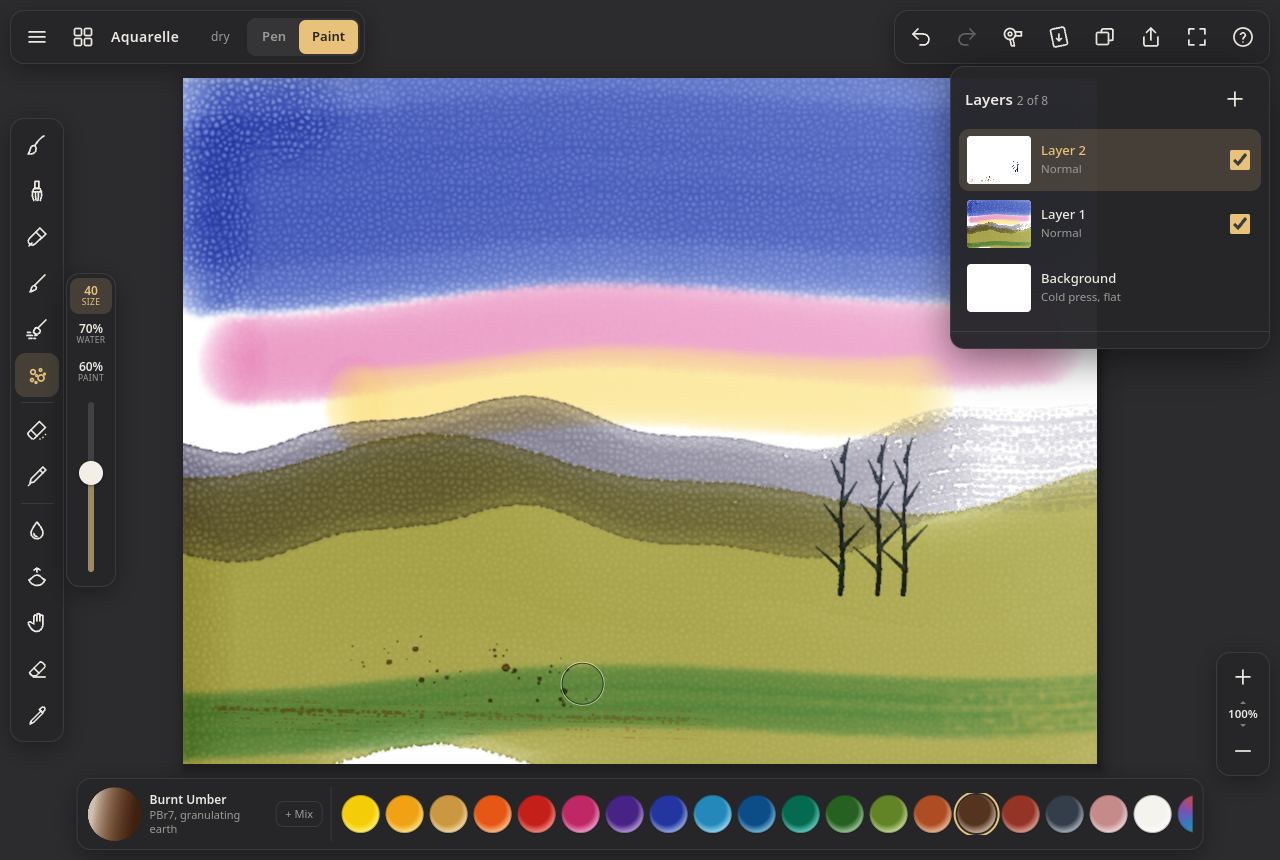
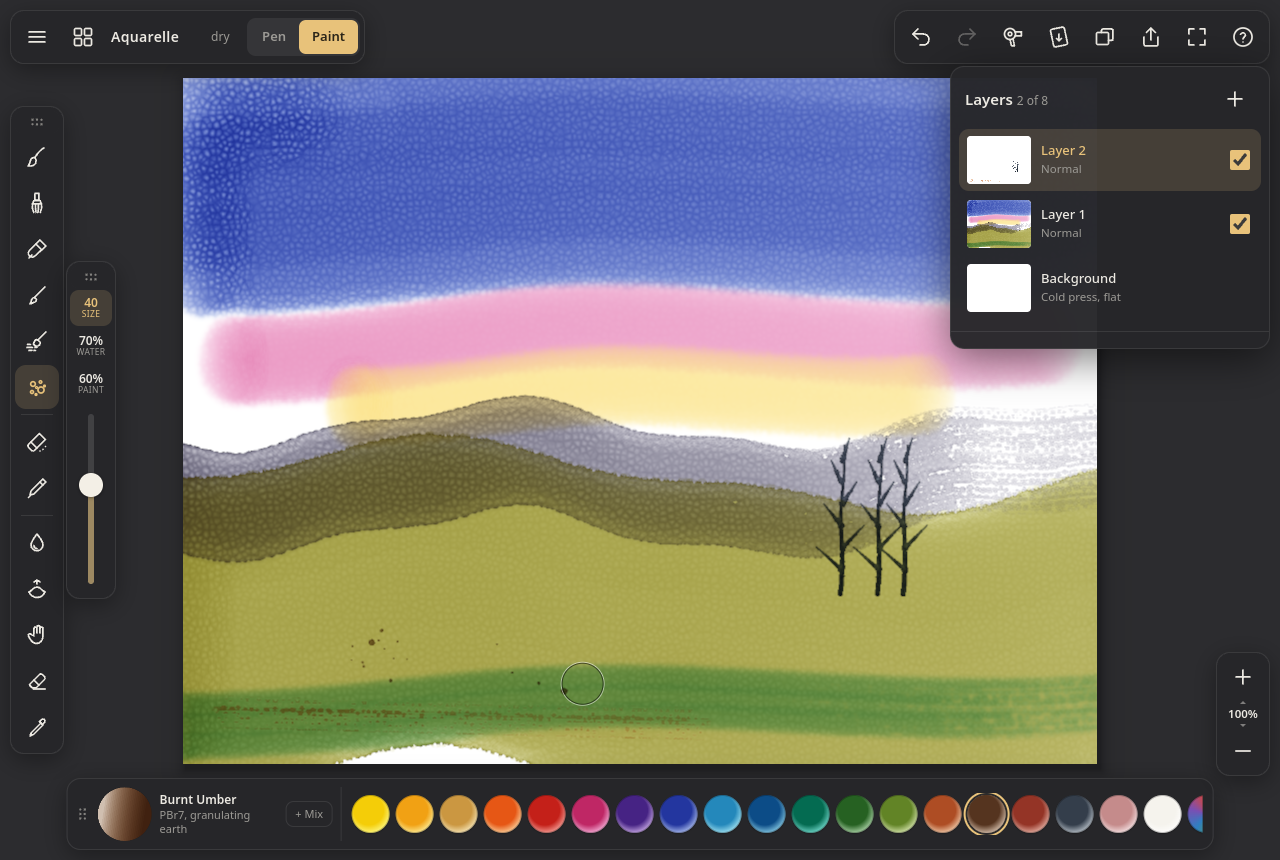
Aquarelle: movable, foldable panels (grip: drag to move, tap to fold)

diff --git a/vibes/aquarelle/app.js b/vibes/aquarelle/app.js
@@ -183,14 +183,15 @@ function fitTopBars() {
 function fitColumns() {
   const tools = $('#tools'), sl = $('#sliders'), track = $('#slTrack'), zb = $('#zoomBar');
   tools.style.top = tools.style.maxHeight = tools.style.transform = '';
-  track.style.height = ''; track.style.display = ''; sl.style.top = sl.style.transform = sl.style.maxHeight = sl.style.overflowY = '';
+  track.style.height = ''; track.style.display = ''; sl.style.top = sl.style.transform = sl.style.maxHeight = sl.style.overflowY = ''; if (!pstate('sliders').pos) sl.style.left = '';
   $('#zoomPct').style.display = '';
   const topB = Math.max(...['#topL', '#topR', '#pages'].map(rectOf).filter(Boolean).map((r) => r.bottom), box.y) + 6;
   const bar = rectOf(S.mode === 'pen' ? '#penBar' : '#palette');
   // tool strip: between the top bars and the palette (on the left both reach it)
-  const t = rectOf('#tools');
+  const t = !pstate('tools').pos && rectOf('#tools');
+  if (pstate('tools').pos) { placePanel('tools'); const r = rectOf('#tools'); if (r && r.height > innerHeight - 16) { tools.style.maxHeight = innerHeight - 16 + 'px'; placePanel('tools'); } }
   if (t) {
-    const lo = bar && bar.left < t.right ? bar.top - 6 : box.y + box.h - 8, room = lo - topB;
+    const lo = bar && bar.left < t.right + 12 ? bar.top - 6 : box.y + box.h - 8, room = lo - topB;
     if (t.height > room) { tools.style.top = topB + 'px'; tools.style.transform = 'none'; tools.style.maxHeight = Math.max(100, room) + 'px'; }
     else if (t.top < topB || t.bottom > lo) { tools.style.top = (topB + lo) / 2 + 'px'; }
   }
@@ -198,7 +199,10 @@ function fitColumns() {
   const z = rectOf('#zoomBar');
   if (z && bar && bar.left < z.right && bar.right > z.left && bar.top < z.bottom) zb.style.bottom = box.y + box.h - bar.top + 8 + 'px';
   // slider column: above the zoom bar when they share the edge
-  const s = rectOf('#sliders'), z2 = rectOf('#zoomBar');
+  const s = !pstate('sliders').pos && rectOf('#sliders'), z2 = rectOf('#zoomBar');
+  if (pstate('sliders').pos) placePanel('sliders');
+  // beside the tool strip (a scrolling strip is a little wider)
+  if (s && !pstate('tools').pos) { const t2 = rectOf('#tools'); if (t2 && s.left < t2.right + 2 && s.right > t2.left && s.top < t2.bottom && s.bottom > t2.top) sl.style.left = t2.right + 4 + 'px'; }
   if (s) {
     let lo = box.y + box.h - 8;
     if (z2 && z2.left < s.right && z2.right > s.left) lo = Math.min(lo, z2.top - 6);
@@ -216,9 +220,76 @@ function fitColumns() {
   const z3 = rectOf('#zoomBar');
   if (z3 && z3.top < topB) $('#zoomPct').style.display = 'none';
 }
+// ---------- movable, foldable panels ----------
+// The palette, the pen bar, the tool strip and the size / water / paint column have a grip:
+// drag it to put the panel anywhere, tap it to fold the panel down to what is selected
+// (tap the folded panel to open it again), double-tap it to put the panel back.
+// S.panels[id] = { folded, pos: { ax: 'l' | 'r', x, ay: 't' | 'b', y } } (px from the nearest edges).
+const MOVABLE = ['palette', 'penBar', 'tools', 'sliders'];
+const pstate = (id) => ((S.panels ??= {})[id] ??= {});
+for (const id of MOVABLE) {
+  const el = document.getElementById(id);
+  const g = Object.assign(document.createElement('button'), { className: 'grip', title: 'Move or fold — drag to move, tap to fold, double-tap to put back', innerHTML: '<svg><use href="#i-grip"/></svg>' });
+  el.prepend(g);
+  let d = null, lastTap = 0;
+  g.addEventListener('pointerdown', (e) => {
+    e.preventDefault(); e.stopPropagation(); g.setPointerCapture(e.pointerId);
+    const r = el.getBoundingClientRect();
+    d = { x: e.clientX, y: e.clientY, ox: e.clientX - r.left, oy: e.clientY - r.top, moved: false };
+  });
+  g.addEventListener('pointermove', (e) => {
+    if (!d) return;
+    if (!d.moved && Math.hypot(e.clientX - d.x, e.clientY - d.y) < 6) return;
+    d.moved = true; labelEl.style.display = 'none';
+    const w = el.offsetWidth, h = el.offsetHeight;
+    const L = Math.max(0, Math.min(innerWidth - w, e.clientX - d.ox)), T = Math.max(0, Math.min(innerHeight - h, e.clientY - d.oy));
+    const ax = L + w / 2 < innerWidth / 2 ? 'l' : 'r', ay = T + h / 2 < innerHeight / 2 ? 't' : 'b';
+    pstate(id).pos = { ax, x: ax === 'l' ? L : innerWidth - L - w, ay, y: ay === 't' ? T : innerHeight - T - h };
+    placePanel(id);
+  });
+  const up = (e) => {
+    if (!d) return;
+    const moved = d.moved; d = null;
+    if (e.type !== 'pointerup') return;
+    if (moved) { savePrefs(); panelsChanged(); return; }
+    const now = performance.now();
+    if (now - lastTap < 350) { // double-tap: back where it belongs, unfolded
+      clearTimeout(g.t); lastTap = 0; delete pstate(id).pos; pstate(id).folded = false; applyPanel(id); savePrefs(); panelsChanged(); return;
+    }
+    lastTap = now;
+    g.t = setTimeout(() => setFolded(id, !pstate(id).folded), 260);
+  };
+  g.addEventListener('pointerup', up); g.addEventListener('pointercancel', up);
+  g.addEventListener('click', (e) => e.stopPropagation());
+  // a folded panel opens again when you tap it
+  el.addEventListener('click', (e) => { if (el.classList.contains('folded') && !e.target.closest('.grip')) { e.stopPropagation(); e.preventDefault(); setFolded(id, false); } }, true);
+}
+function setFolded(id, v) { pstate(id).folded = v; applyPanel(id); savePrefs(); panelsChanged(); }
+function applyPanel(id) { document.getElementById(id).classList.toggle('folded', !!pstate(id).folded); placePanel(id); }
+/** Put a moved panel where it was put, kept on the screen; a panel that was not moved: clear. */
+function placePanel(id) {
+  const el = document.getElementById(id), p = pstate(id).pos;
+  el.classList.toggle('placed', !!p);
+  if (!p) { for (const k of ['left', 'top', 'right', 'bottom', 'transform', 'translate']) el.style[k] = ''; return; }
+  const w = el.offsetWidth, h = el.offsetHeight;
+  let L = p.ax === 'l' ? p.x : innerWidth - p.x - w, T = p.ay === 't' ? p.y : innerHeight - p.y - h;
+  L = Math.max(0, Math.min(innerWidth - w, L)); T = Math.max(0, Math.min(innerHeight - h, T));
+  Object.assign(el.style, { left: L + 'px', top: T + 'px', right: 'auto', bottom: 'auto', transform: 'none', translate: 'none' });
+}
+function panelsChanged() { if (!sim) return; if (!userMovedView) fit(); else layoutPanels(); needsRender = true; }
+/** A panel that was moved away from every edge floats over the page and leaves it its room. */
+function floating(id) {
+  if (!pstate(id).pos) return false;
+  const r = rectOf('#' + id); if (!r) return false;
+  const m = 36; return r.left > m && r.top > m && r.right < innerWidth - m && r.bottom < innerHeight - m;
+}
+function resetPanels() { for (const id of MOVABLE) { delete pstate(id).pos; pstate(id).folded = false; applyPanel(id); } savePrefs(); panelsChanged(); }
+for (const id of MOVABLE) applyPanel(id);
+
 function layoutPanels() {
   const pg = $('#pages'), zb = $('#zoomBar');
   pg.style.top = ''; zb.style.bottom = '';
+  placePanel('palette'); placePanel('penBar');
   fitTopBars();
   const p = rectOf('#pages');
   if (p) {
@@ -233,7 +304,7 @@ function freeArea() {
   const gap = box.w < 720 ? 8 : 14;
   let top = box.y, bottom = box.y + box.h, left = box.x, right = box.x + box.w;
   for (const sel of ['#topL', '#topR', '#pages', '#tools', '#sliders', '#zoomBar', '#palette', '#penBar']) {
-    const r = rectOf(sel); if (!r) continue;
+    const r = rectOf(sel); if (!r || (MOVABLE.includes(sel.slice(1)) && floating(sel.slice(1)))) continue;
     const cx = r.left + r.width / 2, cy = r.top + r.height / 2;
     if (r.width >= r.height) { if (cy < box.y + box.h / 2) top = Math.max(top, r.bottom); else bottom = Math.min(bottom, r.top); }
     else if (cx < box.x + box.w / 2) left = Math.max(left, r.right); else right = Math.min(right, r.left);
@@ -1223,6 +1294,7 @@ function buildActions() {
   chk('#optFs', () => !!S.autoFs, (v) => { S.autoFs = v; if (v) setFullscreen(true); });
   chk('#optEink', () => !!S.eink, (v) => { S.eink = v; applyTheme(); });
   chk('#optLabels', () => S.labels !== false, (v) => (S.labels = v));
+  $('#optPanels').onclick = () => { resetPanels(); toast('Panels are back in place'); };
   chk('#optCursor', () => S.cursor, (v) => { S.cursor = v; updateCursor(); });
   chk('#optQuick', () => S.quick, (v) => (S.quick = v));
   chk('#optRotate', () => S.rotate, (v) => { S.rotate = v; if (!v) { view.r = 0; needsRender = true; } });
@@ -1765,6 +1837,6 @@ if ('serviceWorker' in navigator && !qs.has('nosw') && location.protocol !== 'fi
 window.__aq = {
   box, get dpr() { return dpr; }, setFullscreen, get sim() { return sim; }, get doc() { return doc; }, view, S, get stroke() { return stroke; }, fit, setTool, selectBrush, choosePigment, useCustom, render,
   redraw: () => { needsRender = true; }, get world() { return world; }, worldKeep, infMinZ, visibleRect, placeAt, freeAreaRect: () => freeArea(), baseZ, zoomBy, zoomToggle, freeArea, gotoPage, insertPage, deletePage, movePage, get pageCache() { return pageCache; }, useBrush, setMode, setNib, setPenColour, exportImage, save, toSheet, toScreen, openGallery, openById, createPainting, rec, togglePop, dupLayer,
-  get penSeen() { return penSeen; }, togglePop, closePops,
+  get penSeen() { return penSeen; }, togglePop, closePops, setFolded, resetPanels, layoutPanels,
 };
 window.__ready = true;

diff --git a/vibes/aquarelle/smoke.js b/vibes/aquarelle/smoke.js
@@ -336,8 +336,10 @@ try {
   // fits between the bars
   const fitOk = await ev(`(() => { const a = __aq.toScreen(0, 0), b = __aq.toScreen(__aq.sim.W, __aq.sim.H), top = Math.max(document.querySelector('#topL').getBoundingClientRect().bottom, document.querySelector('#topR').getBoundingClientRect().bottom), pb = document.querySelector('#penBar').getBoundingClientRect().top; return a.y >= top - 1 && b.y <= pb + 1 && a.x >= 0 && b.x <= innerWidth; })()`);
   check(fitOk, 'page fits between the top bar and the pen bar');
-  const tgt = await ev(`[...document.querySelectorAll('.panel button')].filter((b) => b.offsetParent).map((b) => { const r = b.getBoundingClientRect(); return Math.min(r.width, r.height); }).sort((a, b) => a - b)[0]`);
+  const tgt = await ev(`[...document.querySelectorAll('.panel button:not(.grip)')].filter((b) => b.offsetParent).map((b) => { const r = b.getBoundingClientRect(); return Math.min(r.width, r.height); }).sort((a, b) => a - b)[0]`);
   check(tgt >= 30, 'touch targets at least 30 CSS px (≈ 5 mm on the B7 Pro)', tgt.toFixed(0) + ' px');
+  const grp = await ev(`[...document.querySelectorAll('.panel .grip')].filter((b) => b.offsetParent).map((b) => { const r = b.getBoundingClientRect(); return [Math.min(r.width, r.height), Math.max(r.width, r.height)]; })`);
+  check(grp.length && grp.every(([a, b]) => a >= 22 && b >= 34), 'panel grips at least 22 × 34 px', JSON.stringify(grp));
   // handwriting: a few cursive-ish words as pen strokes
   const word = (x0, y0, n) => { const pts = []; for (let i = 0; i <= n * 12; i++) { const t = i / 12; pts.push([x0 + t * 34, y0 - 26 * Math.abs(Math.sin(t * Math.PI * 0.9)) + 6 * Math.sin(t * 7)]); } return pts; };
   const ls = await ev('__aq.sim.pattern.sp');
@@ -595,6 +597,38 @@ try {
   const far2 = await ev(`(() => { const q = __aq.toScreen(${farPt[0]} - __aq.sim.origin[0], ${farPt[1]} - __aq.sim.origin[1]); return [q.x, q.y]; })()`);
   check(far2[0] > 0 && far2[0] < 632 && (await scr2(far2[0], far2[1])) < 120, 'far writing restored too', far2.map((v) => v.toFixed(0)).join(','));
   check(errors().length === 0, 'no console errors (new controls, pastel, infinite page)', errors().join(' | '));
+  // panels fold and move by their grips
+  await c.send('Emulation.setDeviceMetricsOverride', { width: 632, height: 840, deviceScaleFactor: 2, mobile: true });
+  check(await load('fresh=1&nosw=1&nohelp=1&nosave=1&eink=1'), 'loads for movable panels'); await sleep(300);
+  const gripAt = (id) => ev(`(() => { const r = document.querySelector('#${id} > .grip').getBoundingClientRect(); return [r.left + r.width / 2, r.top + r.height / 2]; })()`);
+  const tapAt = async ([x, y]) => { for (const type of ['mousePressed', 'mouseReleased']) await c.send('Input.dispatchMouseEvent', { type, x, y, button: 'left', buttons: type === 'mousePressed' ? 1 : 0, clickCount: 1 }); };
+  const qpw0 = await ev(`document.querySelector('#palette').getBoundingClientRect().width`);
+  await tapAt(await gripAt('palette')); await sleep(500);
+  const qpw1 = await ev(`document.querySelector('#palette').getBoundingClientRect().width`);
+  check(qpw1 < qpw0 * 0.3 && (await ev(`document.querySelector('#palette').classList.contains('folded')`)), 'tapping the palette grip folds it', `${qpw0.toFixed(0)} -> ${qpw1.toFixed(0)} px`);
+  await tapAt(await ev(`(() => { const r = document.querySelector('#mixWell').getBoundingClientRect(); return [r.left + r.width / 2, r.top + r.height / 2]; })()`)); await sleep(300);
+  check(!(await ev(`document.querySelector('#palette').classList.contains('folded')`)) && !(await ev(`document.querySelector('#colPop').classList.contains('open')`)), 'tapping the folded palette opens it again');
+  await tapAt(await gripAt('tools')); await sleep(500);
+  check(await ev(`(() => { const v = [...document.querySelectorAll('#tools > button:not(.grip)')].filter((b) => b.offsetParent); return v.length === 1 && v[0].classList.contains('on'); })()`), 'a folded tool strip shows just the selected tool');
+  await tapAt(await gripAt('tools')); await sleep(500);
+  // drag the tool strip by its grip into the middle: it stays there, floats, and survives a reload
+  const qg0 = await gripAt('tools');
+  await c.send('Input.dispatchMouseEvent', { type: 'mousePressed', x: qg0[0], y: qg0[1], button: 'left', buttons: 1, clickCount: 1 });
+  for (let i = 1; i <= 10; i++) await c.send('Input.dispatchMouseEvent', { type: 'mouseMoved', x: qg0[0] + i * 25, y: qg0[1] + i * 5, button: 'left', buttons: 1 });
+  await c.send('Input.dispatchMouseEvent', { type: 'mouseReleased', x: qg0[0] + 250, y: qg0[1] + 50, button: 'left', buttons: 0, clickCount: 1 });
+  await sleep(400);
+  const qg1 = await gripAt('tools');
+  check(Math.abs(qg1[0] - qg0[0] - 250) < 3 && Math.abs(qg1[1] - qg0[1] - 50) < 3, 'dragging the grip moves the tool strip', `${(qg1[0] - qg0[0]).toFixed(0)}, ${(qg1[1] - qg0[1]).toFixed(0)}`);
+  check(await ev(`__aq.freeArea().left < 40`), 'a floating panel leaves the page its room');
+  check(await load('nosw=1&nohelp=1&nosave=1&eink=1'), 'reload keeps the panel'); await sleep(300);
+  const qg2 = await gripAt('tools');
+  check(Math.abs(qg2[0] - qg1[0]) < 3 && Math.abs(qg2[1] - qg1[1]) < 3, 'the tool strip is still where it was put');
+  // double-tap: back in place
+  const qgp = await gripAt('tools'); await tapAt(qgp); await sleep(80); await tapAt(qgp); await sleep(500);
+  const qg3 = await gripAt('tools');
+  check(Math.abs(qg3[0] - qg0[0]) < 3, 'double-tapping the grip puts it back');
+  await ev('__aq.resetPanels(); true');
+
   // every panel fits small and short screens: scrolling tool strip, ⋯ menu, popovers inside
   const panelsFit = () => ev(`(() => { const rs = [...document.querySelectorAll('.panel')].map((p) => [p.id, p.getBoundingClientRect()]).filter(([, r]) => r.width), bad = [];
     for (let i = 0; i < rs.length; i++) { const [n, r] = rs[i]; if (r.left < -1 || r.top < -1 || r.right > innerWidth + 1 || r.bottom > innerHeight + 1) bad.push(n + ' off'); for (let j = i + 1; j < rs.length; j++) { const [m, q] = rs[j]; if (r.left < q.right && q.left < r.right && r.top < q.bottom && q.top < r.bottom) bad.push(n + '/' + m); } }

diff --git a/vibes/aquarelle/index.html b/vibes/aquarelle/index.html
@@ -59,6 +59,25 @@
   #tools::-webkit-scrollbar { width: 3px; } #tools::-webkit-scrollbar-thumb { background: var(--line); border-radius: 2px; }
   #tools > * { flex-shrink: 0; }
   #sliders { scrollbar-width: none; }
+  /* grips: drag to move a panel, tap to fold it */
+  .grip { flex: 0 0 auto; display: flex; align-items: center; justify-content: center; color: var(--dim); touch-action: none; cursor: grab; border-radius: 6px; opacity: 0.8; }
+  .grip:active { cursor: grabbing; }
+  .grip svg { width: 18px; height: 18px; fill: currentColor; stroke: none; }
+  #palette > .grip { width: 22px; height: 44px; margin: 0 -4px 0 -6px; }
+  #tools > .grip, #sliders > .grip { width: 100%; height: 22px; position: sticky; top: -4px; z-index: 1; background: var(--panel); }
+  #tools > .grip svg, #sliders > .grip svg { transform: rotate(90deg); }
+  #penBar > .grip { position: absolute; left: 2px; top: 50%; translate: 0 -50%; width: 22px; height: 44px; }
+  body.penmode #penBar { padding-left: 26px; }
+  body.eink .grip { color: #000; opacity: 1; }
+  /* folded: just what is selected */
+  #palette.folded > :not(.grip, #mixWell) { display: none !important; }
+  #palette.folded #mixWell { width: 44px; height: 44px; }
+  #tools.folded > :not(.grip, .on) { display: none !important; }
+  #tools.folded:not(:has(.on)) > [data-brush]:first-of-type { display: flex !important; }
+  #sliders.folded > :not(.grip, .chip.on) { display: none !important; }
+  #penBar.folded .nib:not(.on), #penBar.folded .pc:not(.on) { display: none !important; }
+  #penBar.folded { flex-direction: row !important; }
+  .panel.folded { cursor: pointer; }
   #morePop { padding: 4px; flex-direction: row; flex-wrap: wrap; gap: 2px; max-width: 200px; }
   #morePop .ico { width: 44px; height: 44px; }
   .menu { overflow-y: auto; }
@@ -312,6 +331,7 @@
 <div id="err"></div>
 
 <svg width="0" height="0" style="position:absolute">
+  <symbol id="i-grip" viewBox="0 0 24 24"><circle cx="9" cy="6" r="1.4"/><circle cx="15" cy="6" r="1.4"/><circle cx="9" cy="12" r="1.4"/><circle cx="15" cy="12" r="1.4"/><circle cx="9" cy="18" r="1.4"/><circle cx="15" cy="18" r="1.4"/></symbol>
   <symbol id="i-more" viewBox="0 0 24 24"><circle cx="5" cy="12" r="1.6"/><circle cx="12" cy="12" r="1.6"/><circle cx="19" cy="12" r="1.6"/></symbol>
   <symbol id="i-pastel" viewBox="0 0 24 24"><path d="M14.5 3.5l6 6-8.5 8.5-6-6z"/><path d="M6 12l-2.5 2.5a2 2 0 0 0 0 2.8l3.2 3.2a2 2 0 0 0 2.8 0L12 18"/><path d="M15 21h.01M18 19.5h.01M20.5 16.5h.01"/></symbol>
   <symbol id="i-pastelpencil" viewBox="0 0 24 24"><path d="M18 3l3 3-12 12-4 1 1-4z"/><path d="M15 6l3 3"/><path d="M3.5 21.5l1.8-1.8"/></symbol>
@@ -484,6 +504,7 @@
       <div class="row"><span>E-paper display<small style="display:block;color:var(--dim);font-size:11.5px">light, high-contrast, no animation</small></span><input type="checkbox" id="optEink"></div>
       <div class="row"><span>Full screen on first touch</span><input type="checkbox" id="optFs"></div>
       <div class="row"><span>Show tool names when tapped<small>hovering with a mouse always shows them</small></span><input type="checkbox" id="optLabels"></div>
+      <div class="row"><span>Panels<small>drag a panel's ⋮⋮ grip to move it, tap it to fold the panel</small></span><button class="btn" id="optPanels">Put back</button></div>
       <div class="row"><span>Right-hand interface</span><input type="checkbox" id="optRight"></div>
       <div class="row"><span>Brush cursor</span><input type="checkbox" id="optCursor"></div>
       <div class="row"><span>Fingers once a pen is used</span><div class="seg" id="fingerSeg"><button data-v="auto">Navigate</button><button data-v="paint">Paint</button></div></div>

diff --git a/CHANGELOG.md b/CHANGELOG.md
@@ -12,6 +12,7 @@
 - ScoreShift: a part that is only on some of the page's systems (an orchestral part going divisi on two braced staves for a few lines) starts its bars with the bars they stand under (`score.js` `alignParts`, `measure.at`, used by `timeline()` and the notation-ir adapter), instead of from the top of the page, where it played over the opening bars (Sibelius 2 viola part, 8 of 17 pages; found through MidiViz #046). Fixture `scan_sibelius2_va_divisi.png`; 54 tests, fixtures unchanged.
 
 25 Oct 2026
+- Aquarelle panels can be moved and folded: a grip on the palette, pen bar, tool strip and size / water / paint column; drag to place (kept relative to the nearest screen edges, so it survives rotation and resizing; a panel away from the edges floats and gives the page its room), tap to fold to the current colour / nib / tool / value, tap the folded panel to unfold, double-tap or Preferences → Panels to put back. `node smoke.js` 163 checks.
 - Squash Court response patterns: for one player's shots (all of them or one type), where the opponent took the ball in reply, over 12 zones. Each zone shows its share, with the busiest shaded; hover, tap or the arrow keys list a zone's reply shots ("Volley Cross Drive"). Replies are graded High / Medium / Low from the shot and where it was taken. On a 41-minute game: 30 and 19 replies located. `bun test` (54), `node smoke.js` (22).
 - Squash Court coaching panel (`coaching.js`): for each player, where they stood when the opponent struck the ball, and how often that was on the T (within 1 m); volleys, where they were taken and where the opponent was then; and every shot's first floor bounce on its own map by shot type. Racket hits are found by carrying the ball back to a player's reach, and hitters are labelled through each rally by alternation. Three maps (both players or one) plus a summary; also in `match.json`, the export and the `match.mjs` summary. On a 41-minute game: hitter known for 115 of 415 shots, so the numbers are thin until the ball is fitted on more shots. `bun test` (51), `node smoke.js` (21).
 - Squash Court: Predicted path toggle (video and 3D view), and the prediction fades as the ball passes it: the part already passed by the video's time is drawn faint, all of it fades out over 0.6 s after its end. `node smoke.js` (all ok).

diff --git a/vibes/aquarelle/README.md b/vibes/aquarelle/README.md
@@ -32,6 +32,10 @@ The interface is the first one's floating toolbars, with everything added since.
 - **Size / water / paint:** one slim column of three values over one slider (top right on
   a phone or a 7" e-reader). Tap a value to put it on the slider, or drag up and down on
   the value itself. For Lift, Smudge and Eraser paint is their strength; pastel has no water.
+- **Move and fold panels:** the palette, pen bar, tool strip and size / water / paint column
+  have a ⋮⋮ grip. Drag it to put the panel anywhere (a panel moved off the edges floats over
+  the page), tap it to fold the panel down to what is selected (tap the folded panel to open
+  it), double-tap it to put the panel back. Preferences → Panels → Put back resets them all.
 - **Small or short screens:** everything stays on screen. Top-right buttons that do not fit
   go into a ⋯ menu, the tool strip scrolls (swipe it up and down), the slider shortens and
   then leaves just the values (drag them), and popovers move in and scroll.
